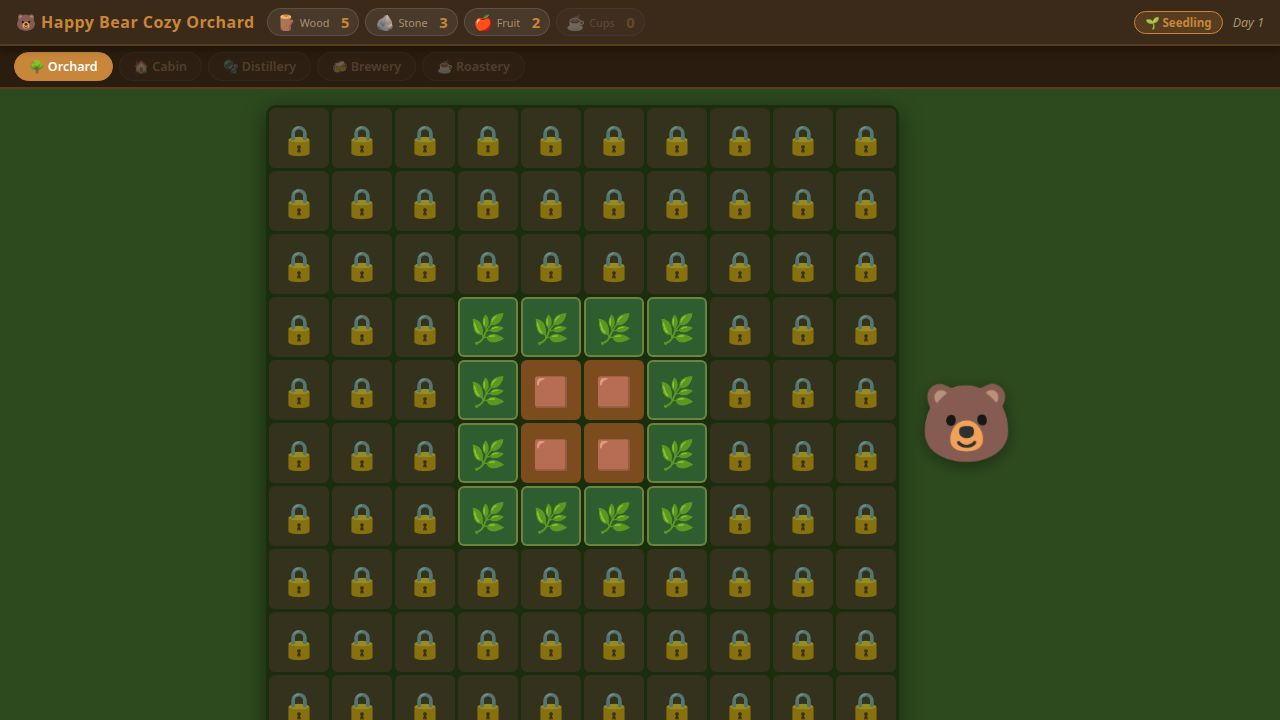
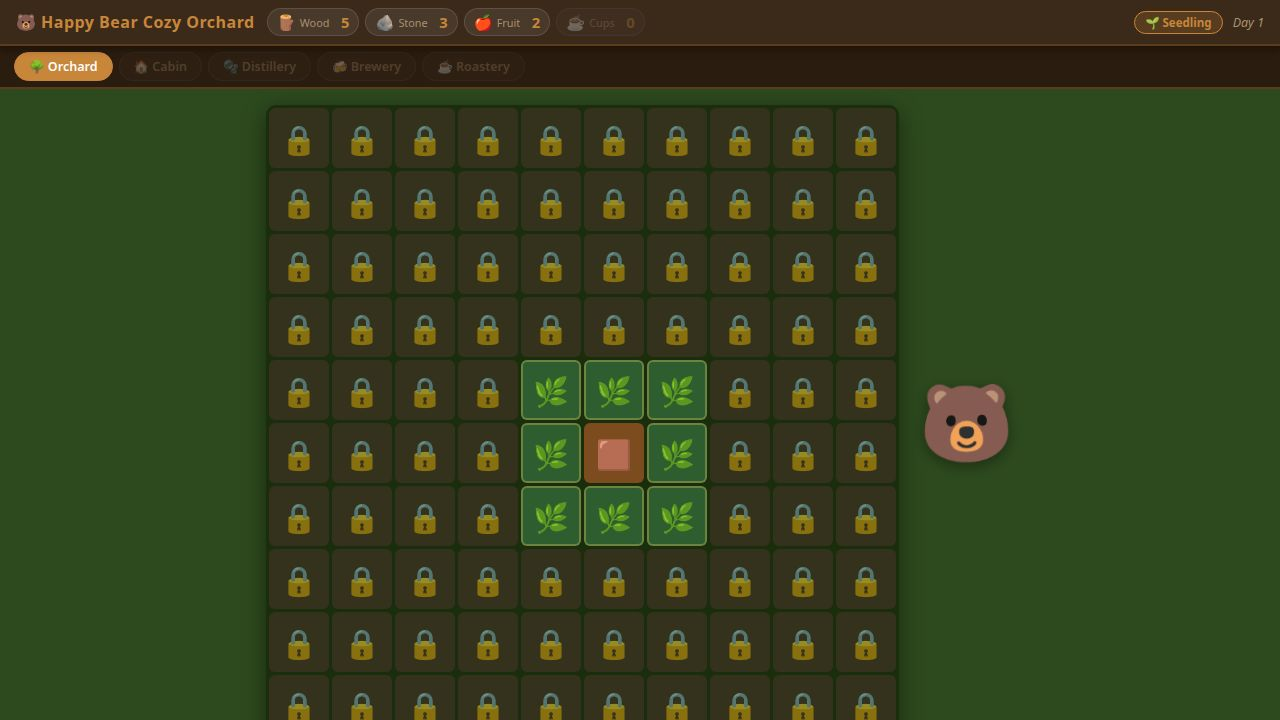
Add a way to mine for stone and expand the orchard grid
Add a new 'mine' action for cleared tiles, update tile states, and adjust the initial orchard layout to include a mineable center.

Replit-Commit-Author: Agent
Replit-Commit-Session-Id: 866dd780-39d2-4f0d-9572-658c4c72d734
Replit-Commit-Checkpoint-Type: full_checkpoint
Replit-Commit-Event-Id: b4c7d946-5cc1-45ae-8150-a69c016bbd9d
Replit-Commit-Screenshot-Url: https://storage.googleapis.com/screenshot-production-us-central1/a0bc20db-8efe-4413-bfa8-7b87ab2c8d33/866dd780-39d2-4f0d-9572-658c4c72d734/xWuwIQH
Replit-Helium-Checkpoint-Created: true

Changed region(s): [[0.3438, 0.3972, 0.5625, 0.7639]]

diff --git a/artifacts/happy-bear-orchard/src/constants.js b/artifacts/happy-bear-orchard/src/constants.js
@@ -14,6 +14,7 @@ export const ACTION = {
   PLANT:   'plant',
   WATER:   'water',
   HARVEST: 'harvest',
+  MINE:    'mine',
 };
 
 export const RESOURCE = {
@@ -38,6 +39,7 @@ export const ACTION_COSTS = {
   [ACTION.PLANT]:   { [RESOURCE.FRUIT]: 1 },
   [ACTION.WATER]:   {},
   [ACTION.HARVEST]: {},
+  [ACTION.MINE]:    {},
 };
 
 export const ACTION_YIELDS = {
@@ -46,6 +48,7 @@ export const ACTION_YIELDS = {
   [ACTION.PLANT]:   {},
   [ACTION.WATER]:   {},
   [ACTION.HARVEST]: { [RESOURCE.FRUIT]: 3, [RESOURCE.CUPS]: 1 },
+  [ACTION.MINE]:    { [RESOURCE.STONE]: 2 },
 };
 
 export const ACTION_VALID_STATES = {
@@ -54,6 +57,7 @@ export const ACTION_VALID_STATES = {
   [ACTION.PLANT]:   [TILE_STATE.CLEARED],
   [ACTION.WATER]:   [TILE_STATE.PLANTED],
   [ACTION.HARVEST]: [TILE_STATE.HARVESTABLE],
+  [ACTION.MINE]:    [TILE_STATE.CLEARED],
 };
 
 export const TILE_VISUAL = {

diff --git a/artifacts/happy-bear-orchard/src/systems/tiles.js b/artifacts/happy-bear-orchard/src/systems/tiles.js
@@ -31,9 +31,9 @@ export class TileGrid {
       this.tiles[y] = [];
       for (let x = 0; x < GRID_SIZE; x++) {
         let state = TILE_STATE.LOCKED;
-        if (x >= 4 && x <= 5 && y >= 4 && y <= 5) {
+        if (x === 5 && y === 5) {
           state = TILE_STATE.CLEARED;
-        } else if (x >= 3 && x <= 6 && y >= 3 && y <= 6) {
+        } else if (x >= 4 && x <= 6 && y >= 4 && y <= 6) {
           state = TILE_STATE.CLEARABLE;
         }
         this.tiles[y][x] = new Tile(x, y, state);
@@ -83,6 +83,9 @@ export class TileGrid {
         tile.state     = TILE_STATE.CLEARED;
         tile.growTicks = 0;
         tile.watered   = false;
+        break;
+      case ACTION.MINE:
+        tile.state = TILE_STATE.CLEARED;
         break;
     }
 
